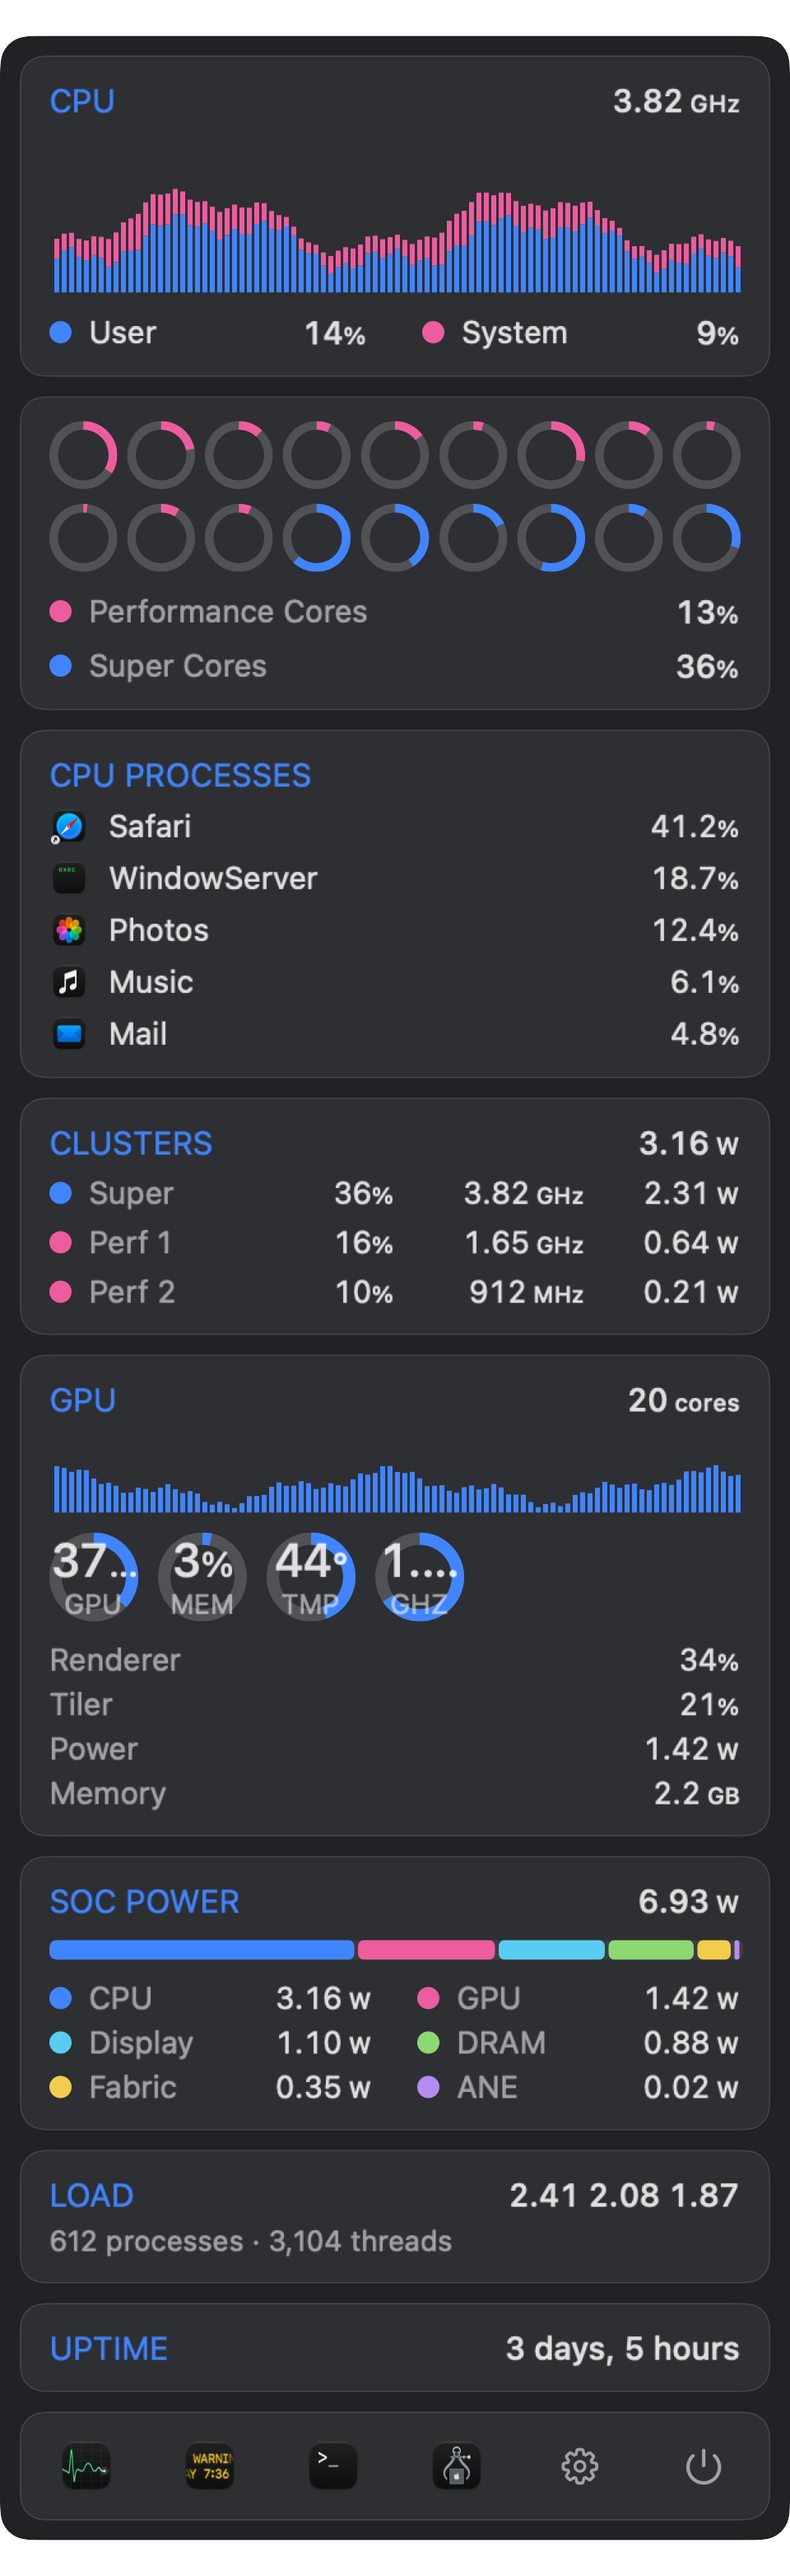
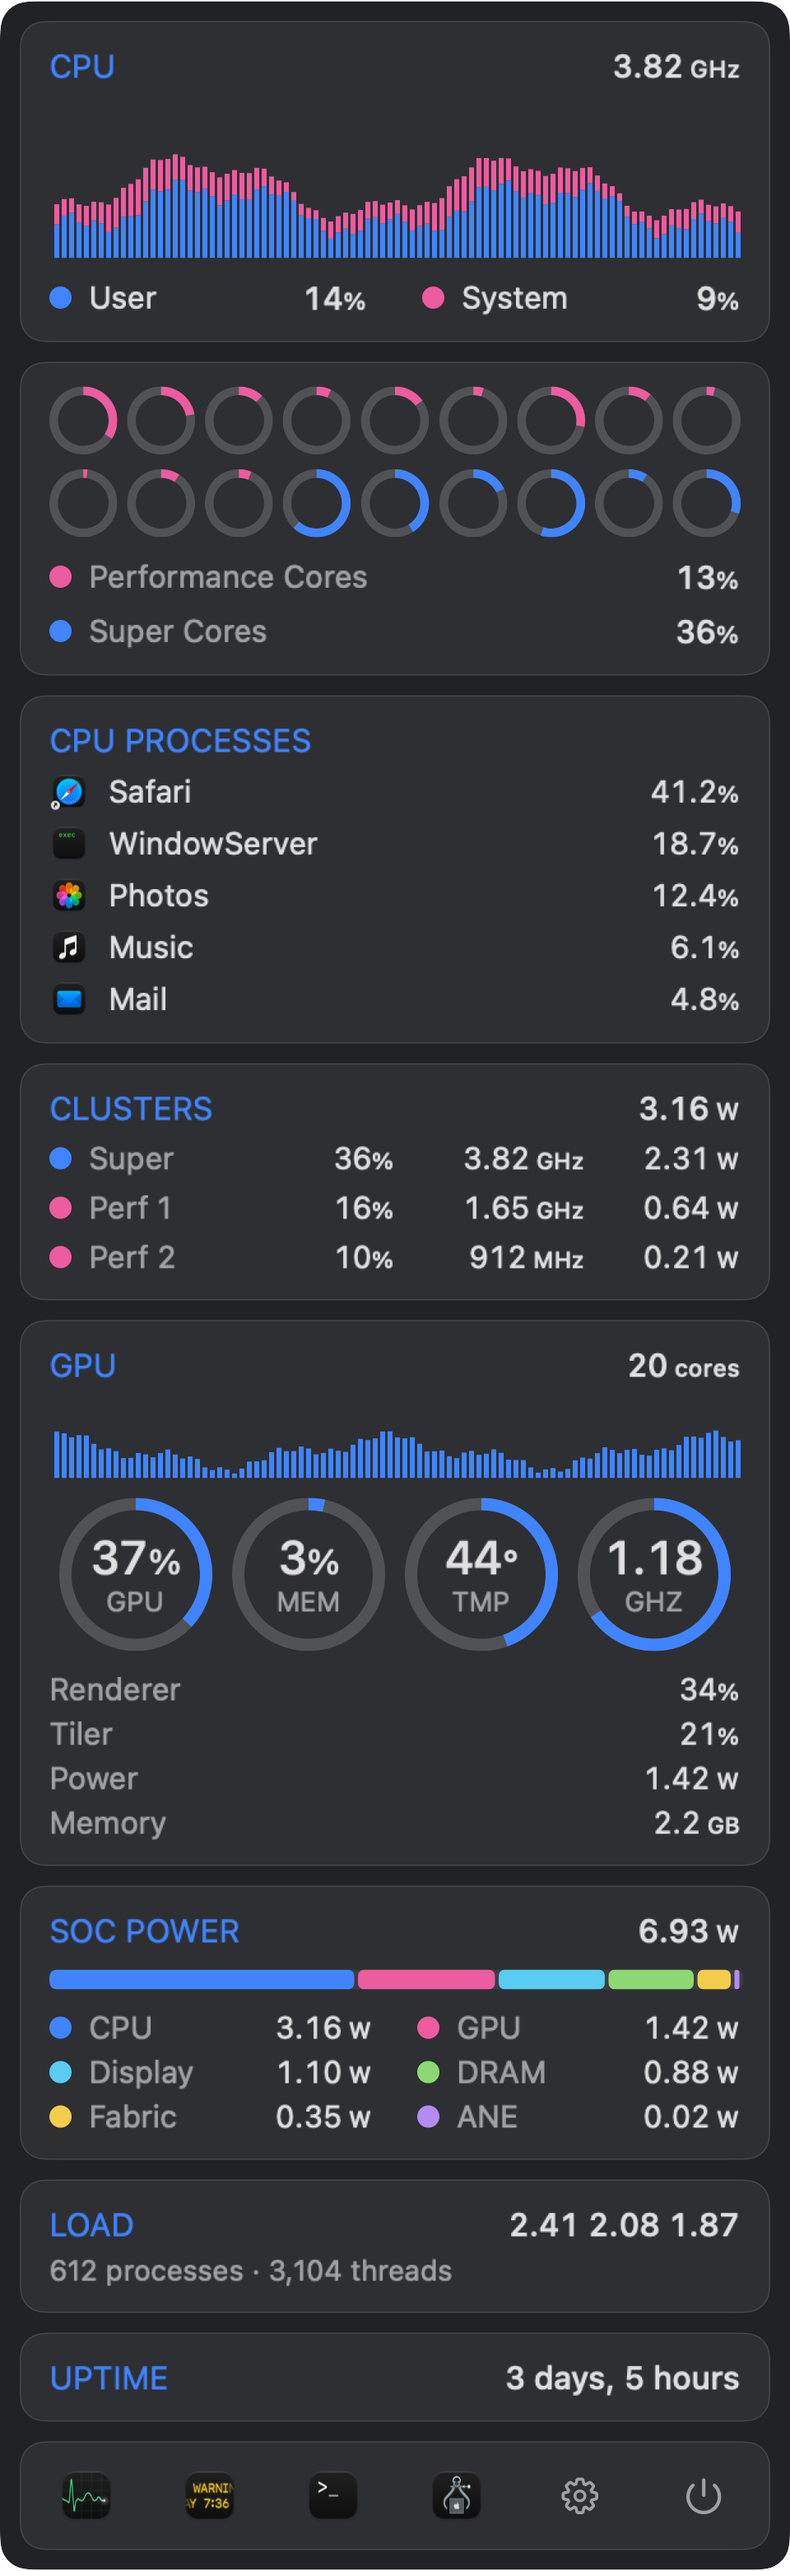
Fix GPU ring layout and bugs found in review
- GPU gauge rings: explicit row height so they don't collapse when the host
  asks for the minimum fitting size (broke the website screenshot)
- Menu bar graph labels froze after ~2 min once history hit capacity; key on
  a monotonically increasing sample counter instead
- Guard Int() conversions in label keys against NaN/inf
- Close the dropdown on clicks in the app's own windows (e.g. Settings)
- Use mach_absolute_time for energy/process deltas so the first sample after
  wake isn't divided by the sleep duration
- NET_RT_IFLIST2: allocate headroom and retry on ENOMEM when interfaces appear
- Public IP: clear on network change, retry sooner after a failed fetch
- Process grouping: prune pid caches every pass, don't cache failed lookups,
  stable sort for ties
- Headline GPU and battery temperatures use the same sensors in compact and
  detailed modes (no step when the Sensors panel opens)
- Update interval: only rebuild the timer when the value changes
- release.sh: refuse to publish from a dirty/unpushed tree or an existing tag,
  and pin the release tag to the built commit
- Site: proper ARIA tabs with arrow-key navigation; re-rendered screenshots

diff --git a/site/index.html b/site/index.html
@@ -271,14 +271,14 @@
     <h2>One click from anything you want to know.</h2>
     <p class="sub">Each menu bar item opens a detailed panel. Turn on just the ones you want; they update every second and cost almost nothing while closed.</p>
 
-    <div class="tabs" role="tablist">
-      <button class="tab" role="tab" aria-selected="true" data-panel="cpu">CPU &amp; GPU</button>
-      <button class="tab" role="tab" aria-selected="false" data-panel="memory">Memory</button>
-      <button class="tab" role="tab" aria-selected="false" data-panel="network">Network</button>
-      <button class="tab" role="tab" aria-selected="false" data-panel="sensors">Sensors</button>
+    <div class="tabs" role="tablist" aria-label="App panels">
+      <button class="tab" role="tab" id="tab-cpu" aria-controls="panel-cpu" aria-selected="true" tabindex="0" data-panel="cpu">CPU &amp; GPU</button>
+      <button class="tab" role="tab" id="tab-memory" aria-controls="panel-memory" aria-selected="false" tabindex="-1" data-panel="memory">Memory</button>
+      <button class="tab" role="tab" id="tab-network" aria-controls="panel-network" aria-selected="false" tabindex="-1" data-panel="network">Network</button>
+      <button class="tab" role="tab" id="tab-sensors" aria-controls="panel-sensors" aria-selected="false" tabindex="-1" data-panel="sensors">Sensors</button>
     </div>
 
-    <div class="panel-view show" data-panel="cpu">
+    <div class="panel-view show" role="tabpanel" id="panel-cpu" aria-labelledby="tab-cpu" data-panel="cpu">
       <img class="shot" src="img/panel-cpu.png" alt="CPU and GPU panel" loading="lazy">
       <div class="copy">
         <div class="kicker">CPU &amp; GPU</div>
@@ -294,7 +294,7 @@
       </div>
     </div>
 
-    <div class="panel-view show" data-panel="memory" hidden>
+    <div class="panel-view show" role="tabpanel" id="panel-memory" aria-labelledby="tab-memory" data-panel="memory" hidden>
       <img class="shot" src="img/panel-memory.png" alt="Memory panel" loading="lazy">
       <div class="copy">
         <div class="kicker">Memory</div>
@@ -309,7 +309,7 @@
       </div>
     </div>
 
-    <div class="panel-view show" data-panel="network" hidden>
+    <div class="panel-view show" role="tabpanel" id="panel-network" aria-labelledby="tab-network" data-panel="network" hidden>
       <img class="shot" src="img/panel-network.png" alt="Network panel" loading="lazy">
       <div class="copy">
         <div class="kicker">Network</div>
@@ -324,7 +324,7 @@
       </div>
     </div>
 
-    <div class="panel-view show" data-panel="sensors" hidden>
+    <div class="panel-view show" role="tabpanel" id="panel-sensors" aria-labelledby="tab-sensors" data-panel="sensors" hidden>
       <img class="shot" src="img/panel-sensors.png" alt="Sensors panel" loading="lazy">
       <div class="copy">
         <div class="kicker">Sensors</div>
@@ -452,11 +452,21 @@
 
 <script>
   // Panel tabs
-  const tabs = document.querySelectorAll('.tab');
-  tabs.forEach(t => t.addEventListener('click', () => {
-    tabs.forEach(x => x.setAttribute('aria-selected', x === t));
+  const tabs = [...document.querySelectorAll('.tab')];
+  function select(t, focus) {
+    tabs.forEach(x => { const on = x === t; x.setAttribute('aria-selected', on); x.tabIndex = on ? 0 : -1; });
     document.querySelectorAll('.panel-view').forEach(v => v.hidden = v.dataset.panel !== t.dataset.panel);
-  }));
+    if (focus) t.focus();
+  }
+  tabs.forEach((t, i) => {
+    t.addEventListener('click', () => select(t, false));
+    t.addEventListener('keydown', e => {
+      const n = { ArrowRight: i + 1, ArrowLeft: i - 1, Home: 0, End: tabs.length - 1 }[e.key];
+      if (n === undefined) return;
+      e.preventDefault();
+      select(tabs[(n + tabs.length) % tabs.length], true);
+    });
+  });
 
   // Reveal on scroll
   const io = new IntersectionObserver(es => es.forEach(e => { if (e.isIntersecting) { e.target.classList.add('in'); io.unobserve(e.target); } }), { threshold: .12 });

diff --git a/Sources/XDRStat/UI/StatusBar/StatusBarController.swift b/Sources/XDRStat/UI/StatusBar/StatusBarController.swift
@@ -106,20 +106,23 @@ final class StatusBarController: NSObject {
     }
 
     private func labelKey(_ k: Kind, _ st: MonitorState) -> String {
+        // Int(NaN/inf) traps, so quantize defensively.
+        func q(_ x: Double, _ scale: Double) -> Int { let v = (x * scale).rounded(); return v.isFinite ? Int(v) : 0 }
         let style = "\(st.style)"
         switch k {
         case .cpu:
-            return style + "|\(Int((st.chip.cpu.usage * 100).rounded()))|"
-                + st.chip.cpu.clusters.map { "\(Int($0.usage * 14))" }.joined(separator: ",")
+            return style + "|\(q(st.chip.cpu.usage, 100))|"
+                + st.chip.cpu.clusters.map { "\(q($0.usage, 14))" }.joined(separator: ",")
         case .memory:
-            return style + "|\(Int((st.memory.usedFraction * 100).rounded()))|\(Int(st.memory.pressure * 14))"
+            return style + "|\(q(st.memory.usedFraction, 100))|\(q(st.memory.pressure, 14))"
         case .network:
             var key = style + "|" + Fmt.rate(st.network.upBytesPerSec) + "|" + Fmt.rate(st.network.downBytesPerSec)
-            if st.style == .graph { key += "|\(st.netDownHistory.values.count)" }   // graph scrolls every tick
+            // The mini graph scrolls every sample (history count saturates at capacity, so use the counter).
+            if st.style == .graph { key += "|\(monitor.sampleCount)" }
             return key
         case .sensors:
             var key = style + "|" + SensorsMenuLabelContent.values(st).joined(separator: ",")
-            if st.style == .graph { key += "|\(st.cpuTempHistory.values.count)|\(Int((st.cpuTempHistory.last ?? 0) * 2))" }
+            if st.style == .graph { key += "|\(monitor.sampleCount)" }
             return key
         }
     }
@@ -166,6 +169,13 @@ final class StatusBarController: NSObject {
         // Close on any click outside our app (other apps, desktop, menu bar)...
         if let m = NSEvent.addGlobalMonitorForEvents(matching: [.leftMouseDown, .rightMouseDown], handler: { [weak self] _ in
             self?.closePanel()
+        }) { eventMonitors.append(m) }
+        // ...on clicks in this app's other windows (e.g. Settings), but not on our status items,
+        // whose own action toggles the panel...
+        if let m = NSEvent.addLocalMonitorForEvents(matching: [.leftMouseDown, .rightMouseDown], handler: { [weak self] e in
+            guard let self, let w = e.window else { return e }
+            if w !== self.panel, !w.className.contains("StatusBar") { self.closePanel() }
+            return e
         }) { eventMonitors.append(m) }
         // ...and on Escape.
         if let m = NSEvent.addLocalMonitorForEvents(matching: [.keyDown], handler: { [weak self] e in

diff --git a/Sources/XDRStat/Network/NetworkSampler.swift b/Sources/XDRStat/Network/NetworkSampler.swift
@@ -114,10 +114,19 @@ final class NetworkSampler {
 
     private func readCounters() -> [RawCounters] {
         var mib: [Int32] = [CTL_NET, PF_ROUTE, 0, 0, NET_RT_IFLIST2, 0]
+        // The table can grow between the size query and the read (VPN up, USB Ethernet plugged in),
+        // which fails with ENOMEM; allocate headroom and retry a couple of times.
         var len = 0
-        guard sysctl(&mib, UInt32(mib.count), nil, &len, nil, 0) == 0, len > 0 else { return [] }
-        var buf = [UInt8](repeating: 0, count: len)
-        guard sysctl(&mib, UInt32(mib.count), &buf, &len, nil, 0) == 0 else { return [] }
+        var buf: [UInt8] = []
+        var ok = false
+        for _ in 0..<3 {
+            guard sysctl(&mib, UInt32(mib.count), nil, &len, nil, 0) == 0, len > 0 else { return [] }
+            len += len / 8 + 512
+            buf = [UInt8](repeating: 0, count: len)
+            if sysctl(&mib, UInt32(mib.count), &buf, &len, nil, 0) == 0 { ok = true; break }
+            if errno != ENOMEM { return [] }
+        }
+        guard ok else { return [] }
         var out: [RawCounters] = []
         buf.withUnsafeBytes { raw in
             var off = 0
@@ -276,6 +285,7 @@ final class PublicIPFetcher: @unchecked Sendable {
         lock.lock()
         let changed = primary != lastPrimary
         lastPrimary = primary
+        if changed { value = nil }   // a different network has a different public IP; don't show the old one
         let due = changed || Date().timeIntervalSince(lastFetch) > 300
         let start = due && !inFlight && primary != nil
         if start { inFlight = true; lastFetch = Date() }
@@ -293,7 +303,12 @@ final class PublicIPFetcher: @unchecked Sendable {
             guard let self else { return }
             let s = data.flatMap { String(data: $0, encoding: .utf8) }?.trimmingCharacters(in: .whitespacesAndNewlines)
             self.lock.lock()
-            if let s, !s.isEmpty, s.count < 46, s.allSatisfy({ $0.isHexDigit || $0 == "." || $0 == ":" }) { self.value = s }
+            if let s, !s.isEmpty, s.count < 46, s.allSatisfy({ $0.isHexDigit || $0 == "." || $0 == ":" }) {
+                self.value = s
+            } else {
+                // Offline / captive portal: retry in ~30 s rather than waiting the full 5 minutes.
+                self.lastFetch = Date().addingTimeInterval(-270)
+            }
             self.inFlight = false
             self.lock.unlock()
         }.resume()

diff --git a/Sources/XDRStat/Sensors/SensorsSampler.swift b/Sources/XDRStat/Sensors/SensorsSampler.swift
@@ -46,12 +46,15 @@ final class SensorsSampler {
         // --- Temperatures
         var byGroup = [[Sensor]](repeating: [], count: groups.count)
         var cpu: [Double] = [], gpu: [Double] = [], mem: [Double] = []
+        // Headline GPU temp uses only the dies read on every tick, so its graph doesn't step when the
+        // Sensors panel opens (detailed mode reads all dies; the summaries below still use all of them).
+        var gpuHeadline: [Double] = []
         var batteryTemps: [Double] = []
         for d in tables.temps where detailed || d.essential {
             guard let v = smc.readValue(d.key), SensorCatalog.validTemp(v) else { continue }
             switch d.role {
             case .cpuDie: cpu.append(v)
-            case .gpuDie: gpu.append(v)
+            case .gpuDie: gpu.append(v); if d.essential { gpuHeadline.append(v) }
             case .memDie: mem.append(v)
             case .plain: break
             }
@@ -74,13 +77,14 @@ final class SensorsSampler {
         // Averaging avoids a single spiky die dominating the menu bar; the hottest die is
         // available as the "cpu.max" sensor.
         if !cpu.isEmpty { snap.cpuTemperature = cpu.reduce(0, +) / Double(cpu.count) }
-        if !gpu.isEmpty { snap.gpuTemperature = gpu.reduce(0, +) / Double(gpu.count) }
+        if !gpuHeadline.isEmpty { snap.gpuTemperature = gpuHeadline.reduce(0, +) / Double(gpuHeadline.count) }
 
         // Battery temperature fallback (registry exposes none on this machine).
-        if snap.battery.temperatureC == nil, !batteryTemps.isEmpty {
-            snap.battery.temperatureC = batteryTemps.reduce(0, +) / Double(batteryTemps.count)
-        } else if snap.battery.temperatureC == nil, let v = smc.readValue("TB0T"), SensorCatalog.validTemp(v) {
+        // Same sensor in both modes (TB0T), so the value doesn't shift when the panel opens.
+        if snap.battery.temperatureC == nil, let v = smc.readValue("TB0T"), SensorCatalog.validTemp(v) {
             snap.battery.temperatureC = v
+        } else if snap.battery.temperatureC == nil, !batteryTemps.isEmpty {
+            snap.battery.temperatureC = batteryTemps.reduce(0, +) / Double(batteryTemps.count)
         }
 
         // --- Fans

diff --git a/Sources/XDRStat/Model/Monitor.swift b/Sources/XDRStat/Model/Monitor.swift
@@ -43,6 +43,9 @@ final class SystemMonitor: ObservableObject {
     @Published private(set) var cpuTempHistory = History()      // °C
     @Published private(set) var gpuTempHistory = History()      // °C
     @Published private(set) var systemPowerHistory = History()  // W
+    /// Increments once per published sample; graph-style menu bar labels key on it so they keep
+    /// scrolling after the histories reach capacity.
+    @Published private(set) var sampleCount = 0
 
     /// Set by panels on appear/disappear.
     var detail = DetailFlags() { didSet { queue.async { [d = detail] in self.detailBox = d } } }
@@ -62,10 +65,18 @@ final class SystemMonitor: ObservableObject {
         start(interval: AppSettings.shared.updateInterval)
     }
 
+    private var currentInterval: TimeInterval?
+
     func start(interval: TimeInterval) {
+        let iv = interval.isFinite ? max(0.25, interval) : 1
+        // The Settings slider calls this on every step; only rebuild the timer when the value changes,
+        // and don't fire an extra immediate sample on a restart.
+        if iv == currentInterval, timer != nil { return }
+        let first = currentInterval == nil
+        currentInterval = iv
         timer?.cancel()
         let t = DispatchSource.makeTimerSource(queue: queue)
-        t.schedule(deadline: .now(), repeating: max(0.25, interval), leeway: .milliseconds(50))
+        t.schedule(deadline: first ? .now() : .now() + iv, repeating: iv, leeway: .milliseconds(50))
         t.setEventHandler { [weak self] in self?.sampleOnQueue() }
         timer = t
         t.resume()
@@ -87,6 +98,7 @@ final class SystemMonitor: ObservableObject {
         self.chip = chip
         self.memory = memory
         self.network = network
+        sampleCount &+= 1
         cpuHistory.append(chip.cpu.usage)
         cpuUserHistory.append(chip.cpu.user)
         cpuSystemHistory.append(chip.cpu.system)

diff --git a/Sources/XDRStat/Model/AppGrouping.swift b/Sources/XDRStat/Model/AppGrouping.swift
@@ -26,14 +26,17 @@ final class AppGrouper {
             }
         }
         let sorted = groups.values.map(\.usage).sorted {
-            byCPU ? $0.cpuPercent > $1.cpuPercent : $0.memoryBytes > $1.memoryBytes
+            let a = byCPU ? $0.cpuPercent : Double($0.memoryBytes)
+            let b = byCPU ? $1.cpuPercent : Double($1.memoryBytes)
+            return a != b ? a > b : $0.name < $1.name   // stable order for ties, so rows don't flicker
         }
         return Array(sorted.prefix(limit))
     }
 
-    /// Drop cached owners for pids that no longer exist.
+    /// Drop cached owners for pids that no longer exist (every call, so a recycled pid never
+    /// inherits a dead process's app).
     func prune(live: Set<Int32>) {
-        if cache.count > live.count + 64 { cache = cache.filter { live.contains($0.key) } }
+        cache = cache.filter { live.contains($0.key) }
     }
 
     /// `responsibility_get_pid_responsible_for_pid` (libSystem, undocumented) — looked up once via dlsym.
@@ -55,7 +58,8 @@ final class AppGrouper {
     private func owner(_ pid: Int32, fallback: String) -> Owner {
         if let o = cache[pid] { return o }
         var o = Owner(key: "pid:\(pid)", name: fallback, appPath: nil)
-        guard var path = Self.path(of: pid) else { cache[pid] = o; return o }
+        // Don't cache a failed lookup (e.g. a process caught mid-spawn); try again next time.
+        guard var path = Self.path(of: pid) else { return o }
         // XPC services (e.g. com.apple.WebKit.WebContent) run on behalf of an app; like Activity Monitor,
         // charge them to their "responsible" app. Only for .xpc bundles: CLI tools would otherwise be
         // charged to the terminal that launched them.

diff --git a/Sources/XDRStat/CPUGPU/Processes.swift b/Sources/XDRStat/CPUGPU/Processes.swift
@@ -6,7 +6,7 @@ final class ProcessSampler {
     private let grouper = AppGrouper()
     private struct State { var cpuNs: UInt64; var start: UInt64 }
     private var state: [Int32: State] = [:]
-    private var lastScan: UInt64 = 0          // mach_continuous_time ns
+    private var lastScan: UInt64 = 0          // mach_absolute_time ns (pauses during sleep, like the counters)
     private var names: [Int32: String] = [:]
     private let tb: mach_timebase_info_data_t = { var t = mach_timebase_info_data_t(); mach_timebase_info(&t); return t }()
     private var pidBuf = [pid_t](repeating: 0, count: 2048)
@@ -29,7 +29,7 @@ final class ProcessSampler {
     func sample(detailed: Bool) -> (processes: Int, threads: Int, top: [ProcessUsage]) {
         guard detailed else { return (processCount(), 0, []) }
         let pids = listPids()
-        let nowNs = toNs(mach_continuous_time())
+        let nowNs = toNs(mach_absolute_time())
         let elapsedNs = lastScan == 0 ? 0 : Double(nowNs &- lastScan)
         var newState: [Int32: State] = [:]
         newState.reserveCapacity(pids.count)

diff --git a/Sources/XDRStat/UI/Panels/CPUPanel.swift b/Sources/XDRStat/UI/Panels/CPUPanel.swift
@@ -149,6 +149,9 @@ struct CPUPanelContent: View {
                 GaugeRing(fraction: gpu.maxFrequencyMHz.map { ($0 > 0 ? (gpu.frequencyMHz ?? 0) / $0 : 0) } ?? 0, color: Theme.accent,
                           value: ghz.map { String(format: "%.2f", $0) } ?? "—", unit: "", caption: "GHZ")
             }
+            // Explicit height: aspect-ratio rings alone collapse when a host asks for the minimum fitting size.
+            .frame(maxWidth: .infinity)
+            .frame(height: 62)
             VStack(spacing: 3) {
                 LegendRow(color: nil, name: "Renderer", value: ValueLabel(value: String(format: "%.0f", gpu.rendererUtilization * 100), unit: "%"))
                 LegendRow(color: nil, name: "Tiler", value: ValueLabel(value: String(format: "%.0f", gpu.tilerUtilization * 100), unit: "%"))

diff --git a/Sources/XDRStat/CPUGPU/ChipSampler.swift b/Sources/XDRStat/CPUGPU/ChipSampler.swift
@@ -110,7 +110,8 @@ final class ChipSampler {
             let st = cpuStates[stateChannelName(e)]
             let table = st.flatMap { cpuTable(for: $0) }
             var core = CoreSample(id: l, kind: e.kind, cluster: e.cluster,
-                                  user: u?[l].user ?? 0, system: u?[l].system ?? 0,
+                                  user: (u.map { l < $0.count ? $0[l].user : 0 }) ?? 0,
+                                  system: (u.map { l < $0.count ? $0[l].system : 0 }) ?? 0,
                                   frequencyMHz: nil, powerW: watts[energyChannelName(e)])
             if let st, let a = FrequencyMath.cpuActive(st, table: table) {
                 core.frequencyMHz = a.mhz

diff --git a/Sources/XDRStat/CPUGPU/IOReport.swift b/Sources/XDRStat/CPUGPU/IOReport.swift
@@ -55,7 +55,9 @@ final class IOReportSession {
         subbed = o.takeRetainedValue()   // Create rule: we own it; kept for the lifetime of the session
     }
 
-    private func now() -> UInt64 { mach_continuous_time() }
+    // Absolute (not continuous) time: it pauses during sleep like the energy counters, so the first
+    // sample after wake isn't divided by hours of sleep.
+    private func now() -> UInt64 { mach_absolute_time() }
 
     /// Takes a sample and returns the delta since the previous call (nil on the first call).
     func sampleDelta() -> IORDelta? {

diff --git a/Sources/XDRStat/Memory/MemorySampler.swift b/Sources/XDRStat/Memory/MemorySampler.swift
@@ -127,7 +127,7 @@ final class MemorySampler {
         }
         let out = grouper.group(named, limit: limit, byCPU: false)
         grouper.prune(live: live)
-        if nameCache.count > 600 { nameCache = nameCache.filter { live.contains($0.key) } }
+        nameCache = nameCache.filter { live.contains($0.key) }   // every call: recycled pids get fresh names
         return out
     }
 }
